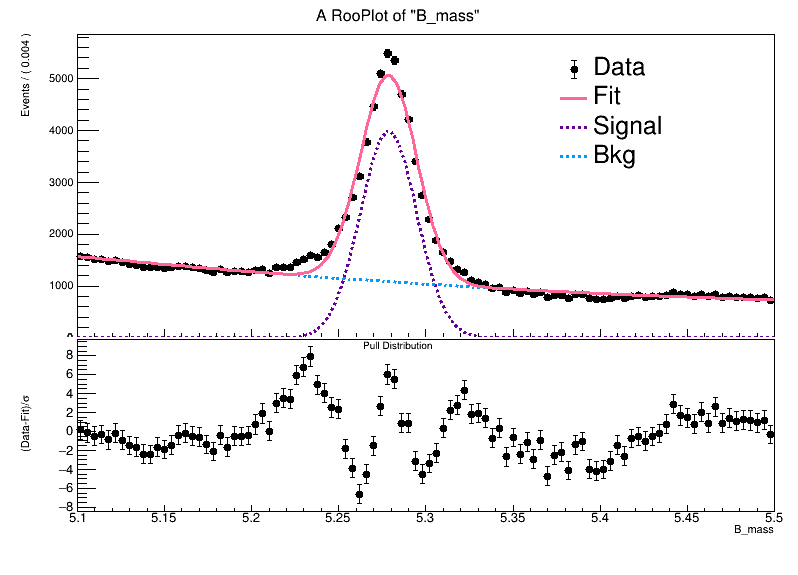
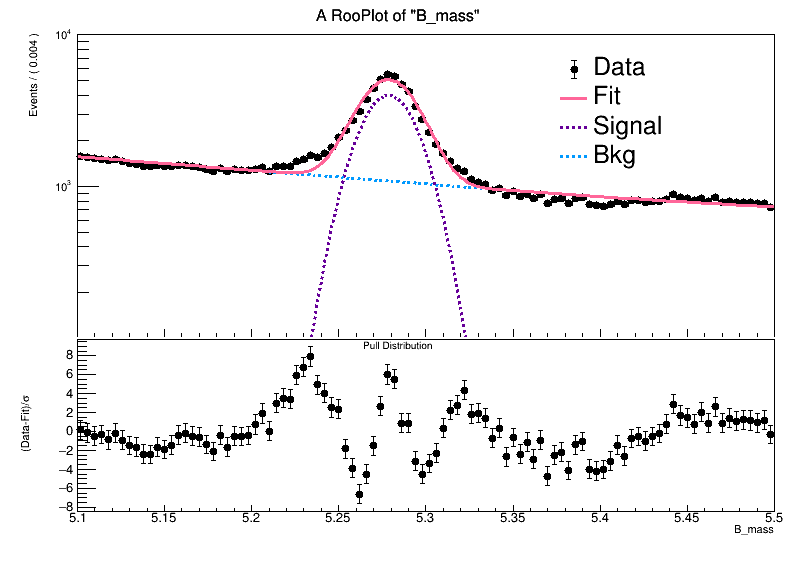
LogScale

diff --git a/Codes/Josue/analisis.C b/Codes/Josue/analisis.C
@@ -1,8 +1,7 @@
-#include "treeClass.h"
 using namespace RooFit; 
 
 void analisis(){
-  TFile *f = new TFile("ROOTS_Bdkstar_AOD_2018_3_best1.root");
+  TFile *f = new TFile("./../../../ROOTS_Bdkstar_AOD_2018_3_best1.root");
   TTree* t = (TTree*) f->Get ("treeS");
 
   Double_t        massB;
@@ -156,7 +155,7 @@ void analisis(){
   pad2->Draw();
 
   pad1->cd();
-
+  gPad->SetLogy();
   RooPlot* frame = Bm.frame(5.1, 5.5, 100);
 
   massDS->plotOn(frame, Name("data"));
@@ -173,7 +172,8 @@ void analisis(){
   legMass->AddEntry(frame->findObject("model"), "Fit", "l");
   legMass->AddEntry(frame->findObject("signal"),"Signal","l");
   legMass->AddEntry(frame->findObject("bkg"),"Bkg","l");
-
+  frame->SetMinimum(1E2);
+  frame->SetMaximum(1E4);
   frame->Draw();
   legMass->Draw();
 
